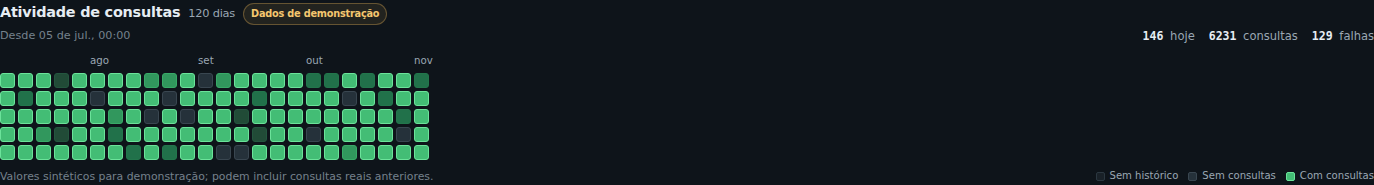
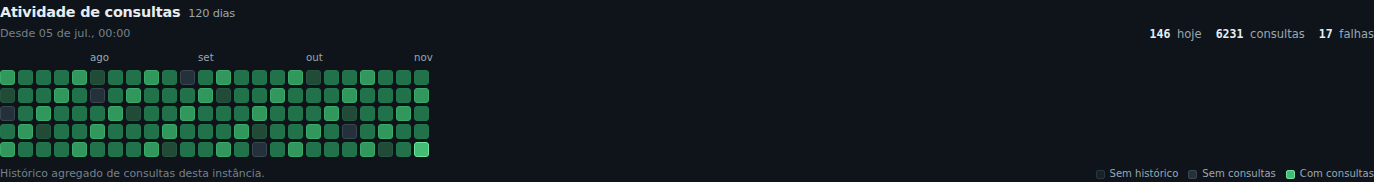
docs: refresh dashboard screenshots without badge

diff --git a/README.md b/README.md
@@ -51,8 +51,8 @@ ou recriações do container.
 
 ## Capturas de tela
 
-As capturas usam valores sintéticos de atividade, identificados na própria tela,
-para demonstrar a visualização dos últimos 120 dias.
+As capturas usam valores sintéticos de atividade para demonstrar a visualização
+dos últimos 120 dias; esses números não representam consultas reais.
 
 ![Visão geral do Torznab Bridge](docs/screenshots/torznab-overview.png)
 
